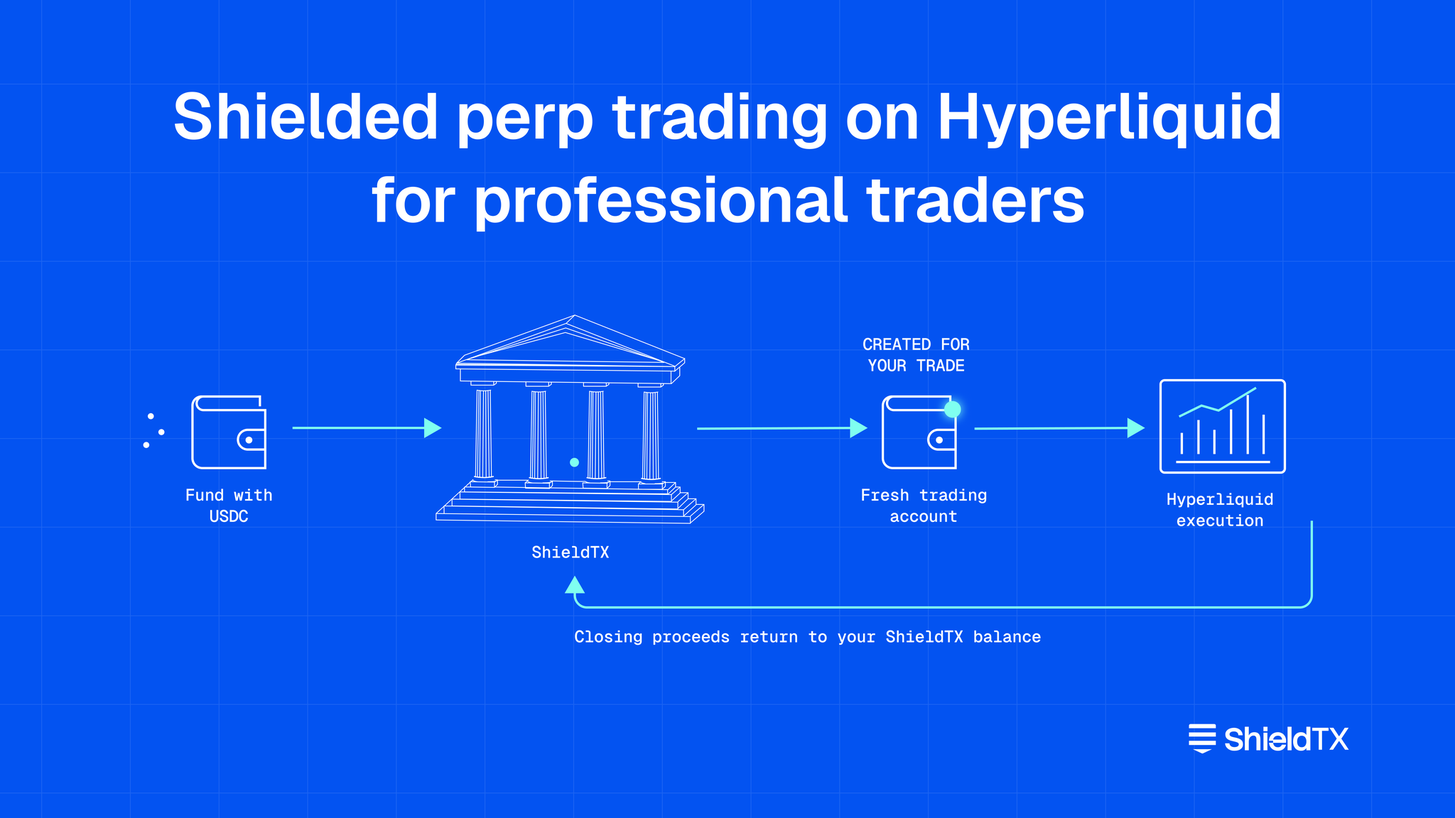
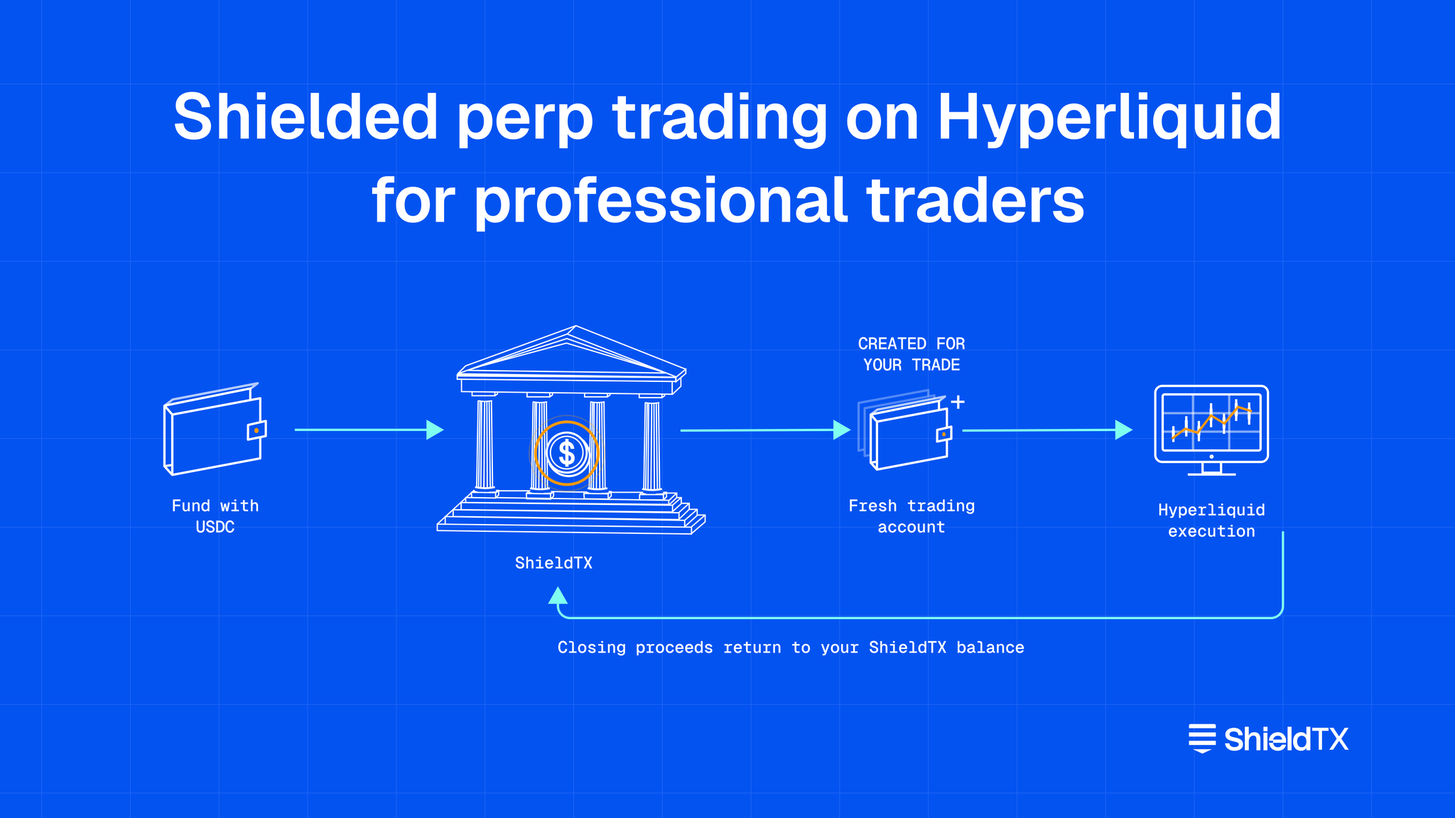
Add new blog, update hero images. (#47)
* Image update

* Replace image

* Add new blog post

* Update index.html

* Update sitemap.xml

Changed region(s): [[0.2188, 0.375, 0.9062, 0.8125], [0.0938, 0.4688, 0.1875, 0.6562]]

diff --git a/blog/how-institutions-can-trade-hyperliquid-perps-privately/index.html b/blog/how-institutions-can-trade-hyperliquid-perps-privately/index.html
@@ -3,21 +3,21 @@
 <head>
   <meta charset="UTF-8" />
   <meta name="viewport" content="width=device-width, initial-scale=1.0" />
-  <title>Blog · ShieldTX</title>
-  <meta name="description" content="Notes from the ShieldTX team on private trading, threat models, and how we're building the product." />
-  <link rel="canonical" href="https://www.shieldtx.xyz/blog" />
+  <title>How Institutions Can Trade Hyperliquid Perps Privately · ShieldTX</title>
+  <meta name="description" content="A practical guide for funds, trading desks and systematic traders seeking to reduce public position attribution while trading Hyperliquid perps." />
+  <link rel="canonical" href="https://www.shieldtx.xyz/blog/how-institutions-can-trade-hyperliquid-perps-privately" />
 
   <link rel="icon" type="image/svg+xml" href="/assets/ShieldTX_LogoMark.svg" />
   <link rel="apple-touch-icon" href="/assets/ShieldTX_LogoMark.svg" />
 
-  <meta property="og:title" content="Blog · ShieldTX" />
-  <meta property="og:description" content="Notes from the ShieldTX team on private trading, threat models, and how we're building the product." />
-  <meta property="og:type" content="website" />
-  <meta property="og:url" content="https://shieldtx.xyz/blog" />
+  <meta property="og:title" content="How Institutions Can Trade Hyperliquid Perps Privately · ShieldTX" />
+  <meta property="og:description" content="Reduce the direct public link between an institution's funding wallet and its Hyperliquid positions." />
+  <meta property="og:type" content="article" />
+  <meta property="og:url" content="https://shieldtx.xyz/blog/how-institutions-can-trade-hyperliquid-perps-privately" />
   <meta property="og:image" content="https://shieldtx.xyz/assets/og-image.jpg" />
   <meta name="twitter:card" content="summary_large_image" />
-  <meta name="twitter:title" content="Blog · ShieldTX" />
-  <meta name="twitter:description" content="Notes from the ShieldTX team on private trading, threat models, and how we're building the product." />
+  <meta name="twitter:title" content="How Institutions Can Trade Hyperliquid Perps Privately · ShieldTX" />
+  <meta name="twitter:description" content="Reduce the direct public link between an institution's funding wallet and its Hyperliquid positions." />
 
   <link rel="preconnect" href="https://fonts.googleapis.com" />
   <link rel="preconnect" href="https://fonts.gstatic.com" crossorigin />
@@ -39,9 +39,7 @@
   <!-- /@partial head-global -->
 </head>
 <body class="blog-body">
-  <!-- Simplified nav: Home · Features · Blog · [Open App] -->
-  <!-- @partial nav variant="nav-blog" -->
-  <header class="nav nav-blog">
+<header class="nav nav-blog">
     <a class="nav-logo" href="/" aria-label="ShieldTX">
       <svg class="nav-logo-svg" viewBox="0 0 414 101" fill="currentColor" xmlns="http://www.w3.org/2000/svg" aria-hidden="true" focusable="false"><path d="M48.5854 87.0215C47.5068 87.5291 46.2579 87.5291 45.1792 87.0215L23.0278 76.5977H70.7368L48.5854 87.0215ZM80.5581 66.0322H13.2065V55.4678H80.5581V66.0322ZM80.5581 44.9023H13.2065V34.3369H80.5581V44.9023ZM76.5581 13.207C78.7672 13.207 80.558 14.998 80.5581 17.207V23.7725H13.2065V17.207C13.2067 14.998 14.9975 13.207 17.2065 13.207H76.5581Z"/><path d="M114.517 61.6894C114.728 63.6924 115.387 65.4319 116.494 66.9078C117.601 68.331 119.05 69.4379 120.842 70.2286C122.687 70.9665 124.743 71.3355 127.01 71.3355C130.225 71.3355 132.861 70.7557 134.916 69.596C136.972 68.4364 138 66.6969 138 64.3777C138 62.7963 137.394 61.5576 136.181 60.6615C134.969 59.7127 133.361 58.9748 131.358 58.4477C129.355 57.8679 127.168 57.3144 124.796 56.7873C122.424 56.2602 120.025 55.654 117.601 54.9688C115.229 54.2308 113.041 53.2557 111.038 52.0433C109.035 50.7783 107.428 49.1179 106.215 47.0621C105.003 44.9537 104.397 42.2655 104.397 38.9974C104.397 35.8875 105.319 33.1201 107.164 30.6954C109.009 28.218 111.565 26.2677 114.833 24.8445C118.154 23.4213 121.949 22.7097 126.219 22.7097C130.278 22.7097 133.915 23.5268 137.13 25.1608C140.398 26.7948 142.955 29.035 144.8 31.8814C146.697 34.6751 147.646 37.8905 147.646 41.5275H137.051C136.84 38.523 135.812 36.1774 133.967 34.4906C132.175 32.8039 129.461 31.9605 125.824 31.9605C122.292 31.9605 119.577 32.6194 117.68 33.9371C115.835 35.2549 114.912 36.9417 114.912 38.9974C114.912 40.7368 115.519 42.1073 116.731 43.1088C117.943 44.1103 119.551 44.901 121.554 45.4808C123.557 46.0606 125.745 46.5877 128.117 47.0621C130.541 47.5365 132.94 48.1427 135.312 48.8807C137.684 49.5659 139.871 50.5147 141.874 51.7271C143.877 52.8867 145.485 54.4944 146.697 56.5501C147.909 58.5531 148.516 61.1623 148.516 64.3777C148.516 69.4906 146.592 73.4703 142.744 76.3167C138.896 79.163 133.493 80.5862 126.535 80.5862C122.266 80.5862 118.444 79.7692 115.071 78.1352C111.697 76.5011 109.009 74.2609 107.006 71.4145C105.003 68.5682 103.922 65.3264 103.764 61.6894H114.517Z"/><path d="M153.149 20.0215H163.111V79.3212H153.149V20.0215ZM163.111 57.4989L161.846 48.5644C161.846 47.1939 162.057 45.6653 162.479 43.9786C162.901 42.2918 163.665 40.6841 164.772 39.1555C165.931 37.5742 167.513 36.2828 169.516 35.2813C171.571 34.2798 174.207 33.779 177.422 33.779C180.269 33.779 182.799 34.3588 185.013 35.5185C187.227 36.6781 188.966 38.6021 190.231 41.2903C191.549 43.9259 192.208 47.5102 192.208 52.0433V79.3212H182.245V53.0712C182.245 51.0155 182.061 49.1969 181.692 47.6156C181.323 45.9816 180.585 44.7165 179.478 43.8204C178.424 42.8716 176.843 42.3972 174.734 42.3972C172.889 42.3972 171.071 42.9243 169.279 43.9786C167.486 45.0328 166.01 46.6668 164.851 48.8807C163.691 51.0945 163.111 53.9673 163.111 57.4989Z"/><path d="M199.876 35.0441H209.759V79.3212H199.876V35.0441ZM199.867 20.0215L210.008 20.1843L209.929 31.2899L199.772 31.2041L199.867 20.0215Z"/><path d="M224.046 60.5034V52.3596H250.059L246.501 54.6525C246.712 52.6495 246.448 50.7519 245.71 48.9597C245.025 47.1149 243.892 45.6126 242.31 44.453C240.729 43.2933 238.673 42.7135 236.143 42.7135C232.717 42.7135 229.844 43.7941 227.525 45.9552C225.206 48.1164 224.046 51.2263 224.046 55.285H213.53C213.847 50.6992 215.033 46.8249 217.088 43.6623C219.197 40.4469 221.885 37.9959 225.153 36.3091C228.474 34.6224 232.137 33.779 236.143 33.779C239.148 33.779 241.968 34.3852 244.603 35.5975C247.292 36.7572 249.585 38.4966 251.482 40.8159C253.432 43.0825 254.856 45.8762 255.752 49.1969C256.7 52.5177 256.885 56.2865 256.305 60.5034H224.046ZM236.143 80.5862C231.979 80.5862 228.289 79.7429 225.074 78.0561C221.859 76.3694 219.276 74.0237 217.326 71.0192C215.375 68.0147 214.163 64.5094 213.688 60.5034H224.046C224.468 63.7715 225.654 66.4597 227.604 68.5682C229.554 70.6239 232.401 71.6517 236.143 71.6517C238.779 71.6517 240.887 71.0456 242.469 69.8332C244.103 68.5682 245.262 67.0396 245.947 65.2474H256.384C255.752 68.3046 254.513 70.9929 252.668 73.3121C250.823 75.5787 248.504 77.3709 245.71 78.6886C242.917 79.9537 239.728 80.5862 236.143 80.5862Z"/><path d="M260.308 20.0215H270.271V79.3212H260.308V20.0215Z"/><path d="M294.033 80.5862C289.922 80.5862 286.364 79.6111 283.359 77.6608C280.408 75.6578 278.115 72.8905 276.481 69.3588C274.899 65.8272 274.109 61.7948 274.109 57.2617C274.109 52.6759 274.899 48.6171 276.481 45.0855C278.115 41.5539 280.408 38.7865 283.359 36.7835C286.364 34.7805 289.922 33.779 294.033 33.779C297.196 33.779 299.884 34.4115 302.098 35.6766C304.365 36.889 306.157 38.6284 307.475 40.895V73.5493C306.21 75.7105 304.47 77.4236 302.256 78.6886C300.095 79.9537 297.354 80.5862 294.033 80.5862ZM295.615 71.6517C298.303 71.6517 300.517 71.0192 302.256 69.7542C303.996 68.4891 305.287 66.776 306.13 64.6149C307.027 62.401 307.475 59.9499 307.475 57.2617C307.475 54.5207 307.027 52.0697 306.13 49.9085C305.287 47.6947 303.996 45.9552 302.256 44.6902C300.517 43.3724 298.303 42.7135 295.615 42.7135C293.243 42.7135 291.187 43.346 289.447 44.6111C287.761 45.8234 286.469 47.5365 285.573 49.7504C284.73 51.9643 284.308 54.468 284.308 57.2617C284.308 60.0027 284.73 62.4801 285.573 64.6939C286.469 66.8551 287.761 68.5682 289.447 69.8332C291.187 71.0456 293.243 71.6517 295.615 71.6517ZM307.475 79.3212V20.0215H317.437V79.3212H307.475Z"/><path d="M362.995 30.3896H346.641V77.9766H338.338V30.3896H322.197L322.13 22.6309H362.928L362.995 30.3896Z"/><path d="M389.333 44.2158L403.485 22.6309H413.29L395.104 50.0664L413.764 77.9766H404.355L389.333 55.8379L374.231 77.9766H364.822L383.481 50.0664L365.296 22.6309H375.179L389.333 44.2158Z"/></svg>
     </a>
@@ -93,123 +91,159 @@
   <!-- /@partial nav -->
 
   <main id="top">
-    <section class="blog-index">
-      <div class="blog-index-wrap">
-        <header class="blog-index-head">
-          <h1 class="blog-index-title">Blogs</h1>
-          <p class="blog-index-sub">Notes on private trading, threat models, and how we're building ShieldTX.</p>
-        </header>
+    <article class="blog-post">
+      <div class="blog-post-wrap">
+        <a href="/blog" class="blog-post-back">← Back to all posts</a>
+        <div class="eyebrow">Institutional Guide</div>
+        <h1>How Institutions Can Trade Hyperliquid Perps Privately</h1>
+        <p class="blog-post-meta">
+          <span>1 October 2026</span>
+          <span>6 min read</span>
+        </p>
 
-        <!-- POSTS STACK — text-only single-column entries. Each post is a
-             semantic <article> with title, meta, lede, and a Read → CTA.
-             Hover reveals a brand-blue stripe on the left. Newest first. -->
-        <div class="blog-stack">
+<figure class="blog-post-hero">
+          <img src="/blog/how-institutions-can-trade-hyperliquid-perps-privately/hero.png" alt="How institutions can trade Hyperliquid perps privately" width="2048" height="1152" />
+        </figure>
 
-          <article class="blog-entry">
-            <a class="blog-entry-link" href="/blog/how-institutions-can-trade-hyperliquid-perps-privately">
-              <span class="blog-entry-meta">1 October 2026 · 6 min read</span>
-              <h2 class="blog-entry-title">How Institutions Can Trade Hyperliquid Perps Privately</h2>
-              <p class="blog-entry-lede">A practical guide for funds, trading desks and systematic traders seeking to reduce public position attribution while trading Hyperliquid perps.</p>
-              <span class="blog-entry-cta">Read →</span>
-            </a>
-          </article>
+        <p class="intro">Reduce the direct public link between an institution's funding wallet and its Hyperliquid positions.</p>
 
-          <article class="blog-entry">
-            <a class="blog-entry-link" href="/blog/private-spot-trading-vs-private-perp-trading">
-              <span class="blog-entry-meta">29 September 2026 · 6 min read</span>
-              <h2 class="blog-entry-title">Private Spot Trading vs Private Perp Trading</h2>
-              <p class="blog-entry-lede">Compare private spot and private perpetual trading: ownership, leverage, funding, liquidation, privacy scope, and where ShieldTX fits.</p>
-              <span class="blog-entry-cta">Read →</span>
-            </a>
-          </article>
+<section>
+        <h2 id="institutional-hyperliquid-trading-creates-a-public-strategy-trail">Institutional Hyperliquid trading creates a public strategy trail<a href="#institutional-hyperliquid-trading-creates-a-public-strategy-trail" class="anchor-link" aria-label="Link to this section"><svg xmlns="http://www.w3.org/2000/svg" fill="none" viewBox="0 0 24 24" stroke="currentColor" stroke-width="2"><path stroke-linecap="round" stroke-linejoin="round" d="M13.828 10.172a4 4 0 00-5.656 0l-4 4a4 4 0 105.656 5.656l1.102-1.101m-.758-4.899a4 4 0 005.656 0l4-4a4 4 0 00-5.656-5.656l-1.1 1.1" /></svg></a></h2>
+        <p>Hyperliquid gives professional traders access to an onchain order book, deep activity across perpetual markets and an API suited to automated execution. The same public infrastructure also makes account activity observable. When an institution trades from a known wallet, the market can monitor its positions, direction, approximate entry, leverage, unrealised PnL, liquidation levels and trading history.</p>
+        <p>For an individual trader, that visibility can attract copy traders. For a fund, market maker or trading desk, it can expose research, inventory, hedging behaviour, risk limits and execution patterns. A wallet can become a live strategy feed long before the institution intends to communicate a view to the market.</p>
+        <p>The institutional objective is not to make market activity disappear. It is to reduce the direct public link between the institution's recognised funding wallet and each position it opens on Hyperliquid.</p>
+      </section>
 
-          <article class="blog-entry">
-            <a class="blog-entry-link" href="/blog/what-is-shieldtx">
-              <span class="blog-entry-meta">28 September 2026 · 6 min read</span>
-              <h2 class="blog-entry-title">What Is ShieldTX</h2>
-              <p class="blog-entry-lede">ShieldTX is a shielded execution layer for perpetual trading on Hyperliquid. Learn how it works, what it shields and what remains public.</p>
-              <span class="blog-entry-cta">Read →</span>
-            </a>
-          </article>
-
-          <article class="blog-entry">
-            <a class="blog-entry-link" href="/blog/how-are-shieldtx-and-silhouette-different">
-              <span class="blog-entry-meta">15 September 2026 · 3 min read</span>
-              <h2 class="blog-entry-title">How are ShieldTX and Silhouette different?</h2>
-              <p class="blog-entry-lede">ShieldTX and Silhouette both operate in the Hyperliquid privacy space, but they solve different problems. Here's how each one differs and when to use which.</p>
-              <span class="blog-entry-cta">Read →</span>
-            </a>
-          </article>
-
-          <article class="blog-entry">
-            <a class="blog-entry-link" href="/blog/shielded-perpetual-trading-on-hyperliquid">
-              <span class="blog-entry-meta">7 September 2026 · 9 min read</span>
-              <h2 class="blog-entry-title">Shielded Perpetual Trading on Hyperliquid: What It Is and How It Works</h2>
-              <p class="blog-entry-lede">Every Hyperliquid position is public. Learn what shielded perpetual trading is, how it works, and how it stops copybots and whale hunters from tracking you.</p>
-              <span class="blog-entry-cta">Read →</span>
-            </a>
-          </article>
-
-          <article class="blog-entry">
-            <a class="blog-entry-link" href="/blog/how-to-tell-if-youre-being-copy-traded-on-hyperliquid">
-              <span class="blog-entry-meta">27 July 2026 · 8 min read</span>
-              <h2 class="blog-entry-title">How to Tell If You're Being Copy Traded on Hyperliquid</h2>
-              <p class="blog-entry-lede">Learn how to tell if someone is copying your Hyperliquid trades. Scan your wallet, detect copy trading, and protect your strategy.</p>
-              <span class="blog-entry-cta">Read →</span>
-            </a>
-          </article>
-
-          <article class="blog-entry">
-            <a class="blog-entry-link" href="/blog/how-to-trade-perps-privately-on-hyperliquid">
-              <span class="blog-entry-meta">24 July 2026 · 12 min read</span>
-              <h2 class="blog-entry-title">How to Trade Perps Privately on the Hyperliquid Orderbook</h2>
-              <p class="blog-entry-lede">A step-by-step guide to trading perps on Hyperliquid without exposing your positions, PnL, or strategy to copybots and surveillance tools.</p>
-              <span class="blog-entry-cta">Read →</span>
-            </a>
-          </article>
-
-          <article class="blog-entry">
-            <a class="blog-entry-link" href="/blog/what-trading-in-public-costs-whales-on-hyperliquid">
-              <span class="blog-entry-meta">22 July 2026 · 8 min read</span>
-              <h2 class="blog-entry-title">The surveillance tax: What Trading in Public Costs Whales on Hyperliquid</h2>
-              <p class="blog-entry-lede">Every position you open on Hyperliquid tells the market something. Here is what public trading costs whales, and how execution isolation changes the game.</p>
-              <span class="blog-entry-cta">Read →</span>
-            </a>
-          </article>
-
-          <article class="blog-entry">
-            <a class="blog-entry-link" href="/blog/what-is-copy-trade-protection">
-              <span class="blog-entry-meta">22 May 2026 · 7 min read</span>
-              <h2 class="blog-entry-title">What Is Copy Trade Protection? A Trader's Guide to Keeping Your Strategy Yours</h2>
-              <p class="blog-entry-lede">Copy trade protection shields your on-chain trading activity from being copied, mirrored, or analyzed.</p>
-              <span class="blog-entry-cta">Read →</span>
-            </a>
-          </article>
-
-          <article class="blog-entry">
-            <a class="blog-entry-link" href="/blog/hyperbot-dexly-hyperdash-copy-trading-tools">
-              <span class="blog-entry-meta">15 May 2026 · 9 min read</span>
-              <h2 class="blog-entry-title">Hyperbot, Dexly &amp; HyperDash: Are They Copying Your Trades?</h2>
-              <p class="blog-entry-lede">Hyperbot, Dexly, and HyperDash are actively copying Hyperliquid traders. How each tool works, why they're a problem, and what to do.</p>
-              <span class="blog-entry-cta">Read →</span>
-            </a>
-          </article>
-
-          <article class="blog-entry">
-            <a class="blog-entry-link" href="/blog/how-copy-traders-are-stealing-your-edge">
-              <span class="blog-entry-meta">8 May 2026 · 6 min read</span>
-              <h2 class="blog-entry-title">How Copy Traders Are Stealing Your Edge on Hyperliquid</h2>
-              <p class="blog-entry-lede">Your Hyperliquid trades are public. How copy trading bots track your positions in real time, and how to trade without exposing your strategy.</p>
-              <span class="blog-entry-cta">Read →</span>
-            </a>
-          </article>
-
+      <section>
+        <h2 id="what-public-attribution-can-reveal">What public attribution can reveal<a href="#what-public-attribution-can-reveal" class="anchor-link" aria-label="Link to this section"><svg xmlns="http://www.w3.org/2000/svg" fill="none" viewBox="0 0 24 24" stroke="currentColor" stroke-width="2"><path stroke-linecap="round" stroke-linejoin="round" d="M13.828 10.172a4 4 0 00-5.656 0l-4 4a4 4 0 105.656 5.656l1.102-1.101m-.758-4.899a4 4 0 005.656 0l4-4a4 4 0 00-5.656-5.656l-1.1 1.1" /></svg></a></h2>
+        <div class="blog-table-wrap">
+          <table class="blog-table">
+            <thead><tr><th scope="col">Public signal</th><th scope="col">What observers may infer</th></tr></thead>
+            <tbody>
+              <tr><td>Direction and size</td><td>Conviction, portfolio bias or a developing thesis</td></tr>
+              <tr><td>Entry and adjustments</td><td>Execution style, accumulation pattern and risk tolerance</td></tr>
+              <tr><td>Leverage and margin</td><td>Capital efficiency targets and proximity to forced liquidation</td></tr>
+              <tr><td>Open interest over time</td><td>Whether the desk is building, hedging or unwinding exposure</td></tr>
+              <tr><td>PnL and liquidation levels</td><td>Performance, stress and possible pressure points</td></tr>
+              <tr><td>Repeated wallet behaviour</td><td>Links between strategies, mandates, operators or counterparties</td></tr>
+            </tbody>
+          </table>
         </div>
+        <p>None of these observations proves the institution's intent. But together they can create a useful signal for copy traders, competitors and counterparties.</p>
+      </section>
+
+      <section>
+        <h2 id="why-operational-separation-is-not-the-same-as-privacy">Why operational separation is not the same as privacy<a href="#why-operational-separation-is-not-the-same-as-privacy" class="anchor-link" aria-label="Link to this section"><svg xmlns="http://www.w3.org/2000/svg" fill="none" viewBox="0 0 24 24" stroke="currentColor" stroke-width="2"><path stroke-linecap="round" stroke-linejoin="round" d="M13.828 10.172a4 4 0 00-5.656 0l-4 4a4 4 0 105.656 5.656l1.102-1.101m-.758-4.899a4 4 0 005.656 0l4-4a4 4 0 00-5.656-5.656l-1.1 1.1" /></svg></a></h2>
+        <h3>Subaccounts organise activity</h3>
+        <p>Hyperliquid subaccounts can separate balances, strategies and permissions for operational purposes. That is useful for desk organisation and risk management. It does not automatically make the underlying account activity private. Public addresses and their positions can still be queried and monitored.</p>
+        <h3>API wallets delegate signing</h3>
+        <p>Hyperliquid API wallets, also called agent wallets, can sign on behalf of a master account or subaccount. They support programmatic trading, but account data is still queried using the relevant master or subaccount address. Delegated signing should therefore not be treated as an execution-privacy feature.</p>
+        <h3>Manual wallet rotation adds overhead</h3>
+        <p>Institutions can spread activity across wallets, but repeated funding paths, timing, trade sizes and behavioural patterns still create links. More wallets also increase key management, gas, reconciliation, reporting and operational risk.</p>
+        <h3>Centralised exchange routing changes the venue</h3>
+        <p>A centralised venue can remove the public exposure, but it also changes the liquidity, custody, counterparty and execution model. That does not solve the problem for a desk that specifically wants Hyperliquid's order book.</p>
+      </section>
+
+      <section>
+        <h2 id="what-private-institutional-execution-should-preserve">What private institutional execution should preserve<a href="#what-private-institutional-execution-should-preserve" class="anchor-link" aria-label="Link to this section"><svg xmlns="http://www.w3.org/2000/svg" fill="none" viewBox="0 0 24 24" stroke="currentColor" stroke-width="2"><path stroke-linecap="round" stroke-linejoin="round" d="M13.828 10.172a4 4 0 00-5.656 0l-4 4a4 4 0 105.656 5.656l1.102-1.101m-.758-4.899a4 4 0 005.656 0l4-4a4 4 0 00-5.656-5.656l-1.1 1.1" /></svg></a></h2>
+        <ul>
+          <li><strong>Hyperliquid execution.</strong> Orders should continue to access Hyperliquid's native order book, markets, liquidity and fills.</li>
+          <li><strong>A clear privacy boundary.</strong> The product should state what is separated from the institution's public identity and what remains observable.</li>
+          <li><strong>Institutional control.</strong> Teams should understand custody, smart-contract control, permissions, withdrawal paths and emergency procedures.</li>
+          <li><strong>Operational fit.</strong> Systematic traders need APIs, reliable order handling and workflows that can fit existing trading infrastructure.</li>
+          <li><strong>Transparent cost and latency.</strong> Fees, routing delay and execution constraints should be visible before a desk deploys capital.</li>
+          <li><strong>Regulatory fit.</strong> The solution should preserve the institution's regulatory compliance and fit its legal, security and risk requirements.</li>
+        </ul>
+      </section>
+
+      <section>
+        <h2 id="how-shieldtx-fits">How ShieldTX fits<a href="#how-shieldtx-fits" class="anchor-link" aria-label="Link to this section"><svg xmlns="http://www.w3.org/2000/svg" fill="none" viewBox="0 0 24 24" stroke="currentColor" stroke-width="2"><path stroke-linecap="round" stroke-linejoin="round" d="M13.828 10.172a4 4 0 00-5.656 0l-4 4a4 4 0 105.656 5.656l1.102-1.101m-.758-4.899a4 4 0 005.656 0l4-4a4 4 0 00-5.656-5.656l-1.1 1.1" /></svg></a></h2>
+        <p>ShieldTX is a non-custodial execution privacy layer for Hyperliquid perpetuals. A trader funds a ShieldTX balance, places a perp order through ShieldTX, and a fresh wallet is funded to route that order to Hyperliquid's native order book. When the position is closed through ShieldTX, the proceeds return to the shielded balance.</p>
+        <p>The position and market activity remain visible on Hyperliquid. What ShieldTX is designed to reduce is the direct public link between the institution's funding wallet and the fresh wallet holding the position. Positions, PnL, liquidation levels, order history and position wallets are therefore not publicly tied to the main wallet in the same way.</p>
+        <p>ShieldTX does not remove price movement, funding, leverage, liquidation, smart-contract, venue or operational risk. It also introduces a routing delay of a few seconds, and ShieldTX fees are shown separately.</p>
+        <p>If you're already trading perps on Hyperliquid you can test your exposure. Our wallet scanner checks your wallet's trading activity and identifies how many wallets are trading in the same market and direction straight after you place your trades. Data is valid for the last 30 days only. <a href="https://scanner.shieldtx.xyz/">Scan your public Hyperliquid wallet exposure</a>.</p>
+      </section>
+
+      <section>
+        <h2 id="a-four-stage-institutional-workflow">A four stage institutional workflow<a href="#a-four-stage-institutional-workflow" class="anchor-link" aria-label="Link to this section"><svg xmlns="http://www.w3.org/2000/svg" fill="none" viewBox="0 0 24 24" stroke="currentColor" stroke-width="2"><path stroke-linecap="round" stroke-linejoin="round" d="M13.828 10.172a4 4 0 00-5.656 0l-4 4a4 4 0 105.656 5.656l1.102-1.101m-.758-4.899a4 4 0 005.656 0l4-4a4 4 0 00-5.656-5.656l-1.1 1.1" /></svg></a></h2>
+        <ol>
+          <li><strong>Fund the ShieldTX balance.</strong> Deposit USDC into ShieldTX. The deposit remains visible onchain, while the funds sit in ShieldTX's on-chain vault on Arbitrum and move only when you sign for them.</li>
+          <li><strong>Submit the order.</strong> Place the Hyperliquid perp trade through the ShieldTX application or an approved API workflow.</li>
+          <li><strong>Execute through a fresh wallet.</strong> ShieldTX creates a fresh Hyperliquid wallet, unlinked to the funding wallet, and routes the order to Hyperliquid's order book. The position is visible, but it is not directly attributed to the institution's funding wallet.</li>
+          <li><strong>Close and settle.</strong> Close through ShieldTX and return the proceeds to the shielded balance, separate from the wallet that held the position.</li>
+        </ol>
+        <p>ShieldTX is non-custodial. Funds are locked in an on-chain vault on Arbitrum, core operations are permissionless and verified by zero-knowledge proofs. Only you can claim your funds, with a signed transaction. Review the <a href="/trust-model/">trust model</a> for details.</p>
+      </section>
+
+      <section>
+        <h2 id="where-the-model-can-help-institutional-teams">Where the model can help institutional teams<a href="#where-the-model-can-help-institutional-teams" class="anchor-link" aria-label="Link to this section"><svg xmlns="http://www.w3.org/2000/svg" fill="none" viewBox="0 0 24 24" stroke="currentColor" stroke-width="2"><path stroke-linecap="round" stroke-linejoin="round" d="M13.828 10.172a4 4 0 00-5.656 0l-4 4a4 4 0 105.656 5.656l1.102-1.101m-.758-4.899a4 4 0 005.656 0l4-4a4 4 0 00-5.656-5.656l-1.1 1.1" /></svg></a></h2>
+        <div class="blog-table-wrap">
+          <table class="blog-table">
+            <thead><tr><th scope="col">Team</th><th scope="col">Potential use</th></tr></thead>
+            <tbody>
+              <tr><td>Fund manager</td><td>Test or build a position without turning a known treasury wallet into a public conviction signal</td></tr>
+              <tr><td>Market maker</td><td>Reduce the trading intelligence competitors can derive from visible inventory, position history and wallet linking</td></tr>
+              <tr><td>Systematic desk</td><td>Execute selected strategies while separating positions from the main funding wallet</td></tr>
+              <tr><td>Institutional hedger</td><td>Limit public attribution around a hedge that could reveal exposure elsewhere in the portfolio</td></tr>
+              <tr><td>Proprietary trader</td><td>Protect research and execution patterns from becoming a persistent public feed</td></tr>
+            </tbody>
+          </table>
+        </div>
+      </section>
+
+      <section>
+        <h2 id="how-shieldtx-supports-institutional-requirements">How ShieldTX supports institutional requirements<a href="#how-shieldtx-supports-institutional-requirements" class="anchor-link" aria-label="Link to this section"><svg xmlns="http://www.w3.org/2000/svg" fill="none" viewBox="0 0 24 24" stroke="currentColor" stroke-width="2"><path stroke-linecap="round" stroke-linejoin="round" d="M13.828 10.172a4 4 0 00-5.656 0l-4 4a4 4 0 105.656 5.656l1.102-1.101m-.758-4.899a4 4 0 005.656 0l4-4a4 4 0 00-5.656-5.656l-1.1 1.1" /></svg></a></h2>
+        <ul>
+          <li><strong>Privacy scope.</strong> A clear boundary: the link between your funding wallet and your positions is reduced, and what remains public is easy to assess.</li>
+          <li><strong>Control model.</strong> Non-custodial by design: funds sit in an on-chain vault on Arbitrum and move only on your signed transaction.</li>
+          <li><strong>Execution.</strong> Hyperliquid's native order book with a defined routing delay and clear handling of fills, cancellations and failed transactions.</li>
+          <li><strong>Risk.</strong> The same leverage, margin, funding and liquidation mechanics as trading on Hyperliquid directly, documented alongside smart-contract and operational risk.</li>
+          <li><strong>Economics.</strong> Transparent ShieldTX fees, Hyperliquid fees and gas for the routing step, visible before you deploy capital.</li>
+          <li><strong>Operations.</strong> API access, key management, rate limits, reconciliation, monitoring and incident response for live desks.</li>
+          <li><strong>Regulatory fit.</strong> Designed so legal, compliance, accounting and reporting requirements can be reviewed against the institution's own obligations.</li>
+        </ul>
+      </section>
+
+      <section>
+        <h2 id="how-to-access-shieldtx">How to access ShieldTX<a href="#how-to-access-shieldtx" class="anchor-link" aria-label="Link to this section"><svg xmlns="http://www.w3.org/2000/svg" fill="none" viewBox="0 0 24 24" stroke="currentColor" stroke-width="2"><path stroke-linecap="round" stroke-linejoin="round" d="M13.828 10.172a4 4 0 00-5.656 0l-4 4a4 4 0 105.656 5.656l1.102-1.101m-.758-4.899a4 4 0 005.656 0l4-4a4 4 0 00-5.656-5.656l-1.1 1.1" /></svg></a></h2>
+        <p>ShieldTX is onboarding professional traders through a private beta. Selected trading desks and institutions can request early API access to fit existing workflows.</p>
+        <p><a class="cta" href="https://www.shieldtx.xyz/request-access">Request access to ShieldTX</a></p>
+      </section>
+
+      <section>
+        <div class="faq" id="faq">
+          <h2>Frequently asked questions<a href="#faq" class="anchor-link" aria-label="Link to this section"><svg xmlns="http://www.w3.org/2000/svg" fill="none" viewBox="0 0 24 24" stroke="currentColor" stroke-width="2"><path stroke-linecap="round" stroke-linejoin="round" d="M13.828 10.172a4 4 0 00-5.656 0l-4 4a4 4 0 105.656 5.656l1.102-1.101m-.758-4.899a4 4 0 005.656 0l4-4a4 4 0 00-5.656-5.656l-1.1 1.1" /></svg></a></h2>
+        <div class="faq-item">
+            <h3>Does ShieldTX make institutional trades invisible?</h3>
+            <p>No. The institution's exposure remains visible on Hyperliquid. ShieldTX is designed to reduce the direct public link between the institution's funding wallet and the wallet holding the position.</p>
+          </div>
+        <div class="faq-item">
+            <h3>Do orders still execute on Hyperliquid?</h3>
+            <p>Yes. ShieldTX routes orders to Hyperliquid's native order book, where they access Hyperliquid liquidity and fills.</p>
+          </div>
+        <div class="faq-item">
+            <h3>Can an institution use an API?</h3>
+            <p>Early API access is available on request for selected teams and institutions.</p>
+          </div>
+        <div class="faq-item">
+            <h3>Are Hyperliquid API wallets private?</h3>
+            <p>No. API wallets delegate signing authority. Hyperliquid documentation states that account data is queried using the actual master or subaccount address.</p>
+          </div>
+        <div class="faq-item">
+            <h3>Does ShieldTX add latency?</h3>
+            <p>Yes. Shielded routing adds a delay of a few seconds before an order reaches Hyperliquid.</p>
+          </div>
+        <div class="faq-item">
+            <h3>Is ShieldTX custodial?</h3>
+            <p>ShieldTX is non-custodial. Funds are locked in an on-chain vault on Arbitrum and move only when you sign for them. See the <a href="/trust-model/">ShieldTX trust model</a> for details.</p>
+          </div>
+        </div>
+      </section>
       </div>
-    </section>
+    </article>
   </main>
 
-  <!-- Footer -->
+<!-- Footer -->
   <!-- @partial footer -->
   <footer class="footer">
     <div class="container footer-grid">
@@ -263,7 +297,21 @@
     (function () {
       const y = document.getElementById('yr');
       if (y) y.textContent = new Date().getFullYear();
+
+      // Copy-link anchor behavior (preserves the source post's interaction)
+      document.querySelectorAll('.anchor-link').forEach(function (link) {
+        link.addEventListener('click', function (e) {
+          e.preventDefault();
+          const url = window.location.origin + window.location.pathname + link.getAttribute('href');
+          if (!navigator.clipboard) return;
+          navigator.clipboard.writeText(url).then(function () {
+            link.classList.add('copied');
+            setTimeout(function () { link.classList.remove('copied'); }, 2000);
+          });
+        });
+      });
     })();
   </script>
 </body>
 </html>
+
